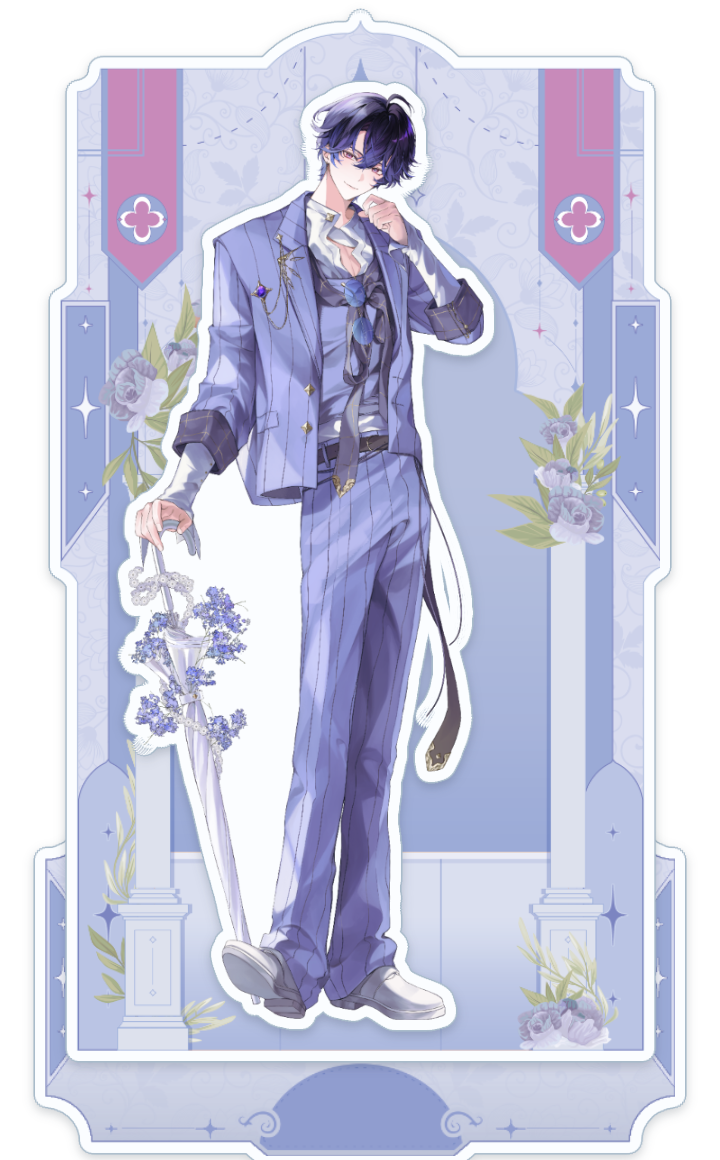
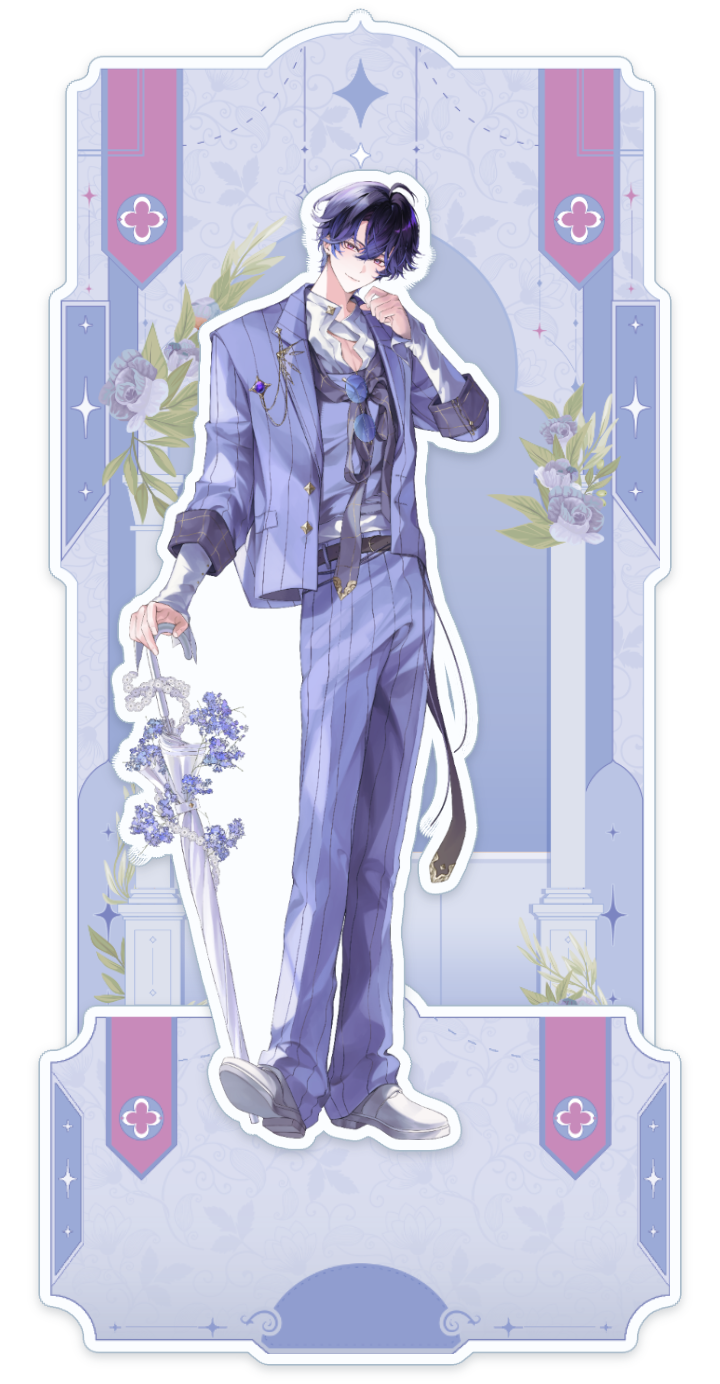
Add files via upload

diff --git a/index.html b/index.html
@@ -253,7 +253,7 @@ a:hover{color:#2E5C7E}
         <div style="display:grid;grid-template-columns:repeat(auto-fit,minmax(min(100%,220px),1fr));gap:40px 24px;justify-items:center">
           <sc-for list="{{ pjx2Stands }}" as="s" hint-placeholder-count="4">
             <div style="display:flex;flex-direction:column;align-items:center;gap:16px;width:100%;max-width:260px">
-              <div onMouseEnter="{{ s.enter }}" onMouseLeave="{{ standLeave }}" style="position:relative;width:100%;aspect-ratio:720/1160;transition:transform .35s cubic-bezier(.2,.8,.2,1);transform:{{ s.lift }}">
+              <div onMouseEnter="{{ s.enter }}" onMouseLeave="{{ standLeave }}" style="position:relative;width:100%;aspect-ratio:720/1384;transition:transform .35s cubic-bezier(.2,.8,.2,1);transform:{{ s.lift }}">
                 <img src="{{ s.img }}" alt="{{ s.name }} 아크릴 스탠드" loading="lazy" style="position:absolute;inset:0;width:100%;height:100%;filter:drop-shadow(0 14px 18px #1E2A361F) drop-shadow(0 2px 3px #1E2A3614)">
                 <div style="position:absolute;inset:0;pointer-events:none;-webkit-mask-image:url({{ s.mask }});mask-image:url({{ s.mask }});-webkit-mask-size:100% 100%;mask-size:100% 100%;background:linear-gradient(115deg,transparent 38%,#FFFFFF73 46%,transparent 53%,transparent 62%,#FFFFFF40 66%,transparent 70%);background-size:300% 300%;background-position:{{ s.glossPos }};transition:background-position 1s ease"></div>
               </div>
@@ -514,7 +514,7 @@ a:hover{color:#2E5C7E}
     <article style="display:flex;flex-direction:column;gap:32px">
       <div style="display:flex;align-items:flex-end;justify-content:space-between;gap:16px 32px;flex-wrap:wrap;padding-bottom:20px;border-bottom:1px solid #D6E2EB;font-family:'Pretendard Variable',Pretendard,'Noto Sans JP',sans-serif">
         <div style="display:flex;flex-direction:column;gap:8px;min-width:0">
-          <span style="font-family:Montserrat,sans-serif;font-size:12px;font-weight:700;letter-spacing:0.16em;color:#447CA2">ART DIRECTING · STUDIO OCI</span>
+          <span style="font-family:Montserrat,sans-serif;font-size:12px;font-weight:700;letter-spacing:0.16em;color:#447CA2">ART DIRECTING · SKOSHISM</span>
           <h3 style="margin:0;font-size:clamp(20px,2.2vw,26px);font-weight:700;line-height:1.35">{{ t.dirTitle }}</h3>
         </div>
         <div style="display:flex;flex-direction:column;gap:2px">
@@ -605,12 +605,12 @@ class Component extends DCLogic {
   i18n = {
     ko: { langNote: '이 페이지는 한국어와 일본어를 지원하며, 한국어를 기준으로 작성되었습니다.\n일본어는 번역 도구를 활용해 옮겼기 때문에 일부 표현이 자연스럽지 않을 수 있습니다.\n원활한 감상을 위해 PC 환경에서 열람하시는 것을 권장합니다.', applyTag: 'DESIGNER APPLICATION', applyNote: '버튜버 디자이너 모집에 지원하기 위해 준비한 지원 페이지입니다.', eyebrow: 'VTUBER DESIGNER · 이치', name: '이치 (ichi)', expHead: '경력 · 프리랜서 계약', projHead: '프로젝트', poster: '포스터', works: '작업물', kinds: '종', avg: '평균 작업 기간', perSheet: '주 / 1장', unitWeek: '주', people: '명',
       goodsHint: '마우스를 올리면 실물 굿즈처럼 반응합니다.', flipHint: '마우스를 올리면 뒷면이 보입니다.', posterHint: '캐릭터별 개인 포스터 4종입니다.', composition: '구성',
-      standTitle: 'PJX 굿즈 디자인 프로젝트 1', pjx2Title: 'PJX 굿즈 디자인 프로젝트 2', aesTitle: 'AESTHER 굿즈 디자인 프로젝트', trTitle: '애니메이션 <도쿄 리벤저스> 굿즈 디자인', slTitle: '스텔라이브 굿즈 디자인', webTitle: '허블사무소 공식 웹페이지 디자인', roleLabel: '역할', webRole: '총괄 디렉터 · 디자이너 2인 협업', webDesc: '전체 와이어프레임과 화면 구도를 설계하고, 디렉팅과 디자인을 담당했습니다.', dirTitle: 'STUDIO OCI 아트 디렉팅 · 전/후 비교', dirDesc: '총괄 디렉터로 아트 디렉팅을 맡고, 최종 슬로건 디자인과 티켓 앞면 디자인을 담당했습니다.', dirRole: '총괄 디렉터 · 디자이너 3인 협업', ehTitle: '애니메이션 <에브리데이 호스트> 굿즈 디자인',
+      standTitle: 'PJX 굿즈 디자인 프로젝트 1', pjx2Title: 'PJX 굿즈 디자인 프로젝트 2', aesTitle: 'AESTHER 굿즈 디자인 프로젝트', trTitle: '애니메이션 <도쿄 리벤저스> 굿즈 디자인', slTitle: '스텔라이브 굿즈 디자인', webTitle: '허블사무소 공식 웹페이지 디자인', roleLabel: '역할', webRole: '총괄 디렉터 · 디자이너 2인 협업', webDesc: '전체 와이어프레임과 화면 구도를 설계하고, 디렉팅과 디자인을 담당했습니다.', dirTitle: 'SKOSHISM 오프라인 이벤트 굿즈 아트 디렉팅 · 전/후 비교', dirDesc: '총괄 디렉터로 아트 디렉팅을 맡고, 최종 슬로건 디자인과 티켓 앞면 디자인을 담당했습니다.', dirRole: '총괄 디렉터 · 디자이너 3인 협업', ehTitle: '애니메이션 <에브리데이 호스트> 굿즈 디자인',
       s1: '상담 · 레퍼런스 정리', d1: '캐릭터 설정, 방송 콘셉트, 원하는 분위기를 함께 정리합니다.', s2: '러프 시안', d2: '구도와 배치를 러프로 먼저 보여드립니다.',
       s3: '작업 · 수정', d3: '진행 상황을 중간중간 공유하며 피드백을 반영합니다.', s4: '최종 납품', d4: 'PSD · PNG(투명 배경) 등 필요한 형식으로 전달합니다.' },
     ja: { langNote: '本ページは韓国語と日本語に対応しており、韓国語を基準に作成しています。\n日本語は翻訳ツールを使用しているため、一部不自然な表現が含まれる場合があります。ご了承ください。\n快適にご覧いただくため、PCでの閲覧をおすすめします。', applyTag: 'DESIGNER APPLICATION', applyNote: 'VTuberデザイナー募集への応募のためにご用意したページです。', eyebrow: 'VTUBER DESIGNER · イチ', name: 'イチ (ichi)', expHead: '経歴 · フリーランス契約', projHead: 'プロジェクト', poster: 'ポスター', works: '作品', kinds: '種', avg: '平均制作期間', perSheet: '週 / 1枚', unitWeek: '週', people: '名',
       goodsHint: 'マウスを乗せると実物のグッズのように反応します。', flipHint: 'マウスを乗せると裏面が表示されます。', posterHint: 'キャラクター別の個人ポスター4種です。', composition: '構成',
-      standTitle: 'PJX グッズデザインプロジェクト 1', pjx2Title: 'PJX グッズデザインプロジェクト 2', aesTitle: 'AESTHER グッズデザインプロジェクト', trTitle: 'アニメ『東京リベンジャーズ』グッズデザイン', slTitle: 'ステラライブ グッズデザイン', webTitle: 'ハッブル事務所 公式Webページデザイン', roleLabel: '役割', webRole: '総括ディレクター · デザイナー2名と協業', webDesc: '全体のワイヤーフレームと画面構成を設計し、ディレクションとデザインを担当しました。', dirTitle: 'STUDIO OCI アートディレクション · ビフォー/アフター', dirDesc: '総括ディレクターとしてアートディレクションを担当し、最終スローガンデザインとチケット表面デザインを手がけました。', dirRole: '総括ディレクター · デザイナー3名と協業', ehTitle: 'アニメ『エブリデイホスト』グッズデザイン',
+      standTitle: 'PJX グッズデザインプロジェクト 1', pjx2Title: 'PJX グッズデザインプロジェクト 2', aesTitle: 'AESTHER グッズデザインプロジェクト', trTitle: 'アニメ『東京リベンジャーズ』グッズデザイン', slTitle: 'ステラライブ グッズデザイン', webTitle: 'ハッブル事務所 公式Webページデザイン', roleLabel: '役割', webRole: '総括ディレクター · デザイナー2名と協業', webDesc: '全体のワイヤーフレームと画面構成を設計し、ディレクションとデザインを担当しました。', dirTitle: 'SKOSHISM オフラインイベントグッズ アートディレクション · ビフォー/アフター', dirDesc: '総括ディレクターとしてアートディレクションを担当し、最終スローガンデザインとチケット表面デザインを手がけました。', dirRole: '総括ディレクター · デザイナー3名と協業', ehTitle: 'アニメ『エブリデイホスト』グッズデザイン',
       s1: 'ヒアリング · 資料整理', d1: 'キャラクター設定、配信コンセプト、ご希望の雰囲気を一緒に整理します。', s2: 'ラフ案', d2: '構図とレイアウトをまずラフでお見せします。',
       s3: '制作 · 修正', d3: '進捗を随時共有し、フィードバックを反映します。', s4: '最終納品', d4: 'PSD · PNG(透過背景)など必要な形式でお渡しします。' }
   };
